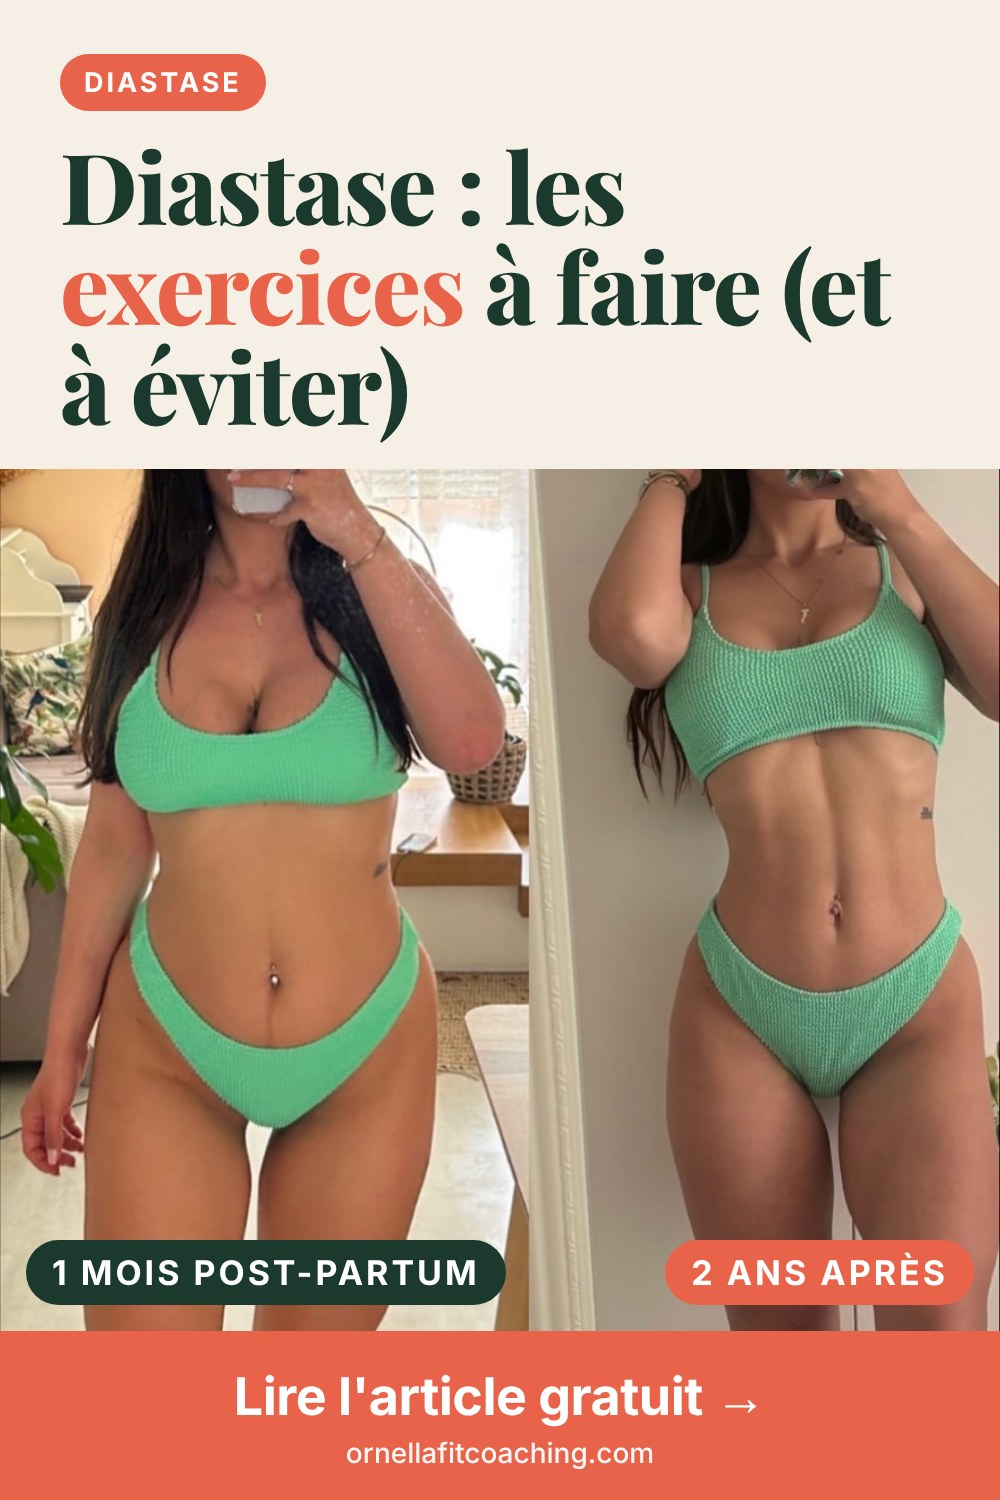
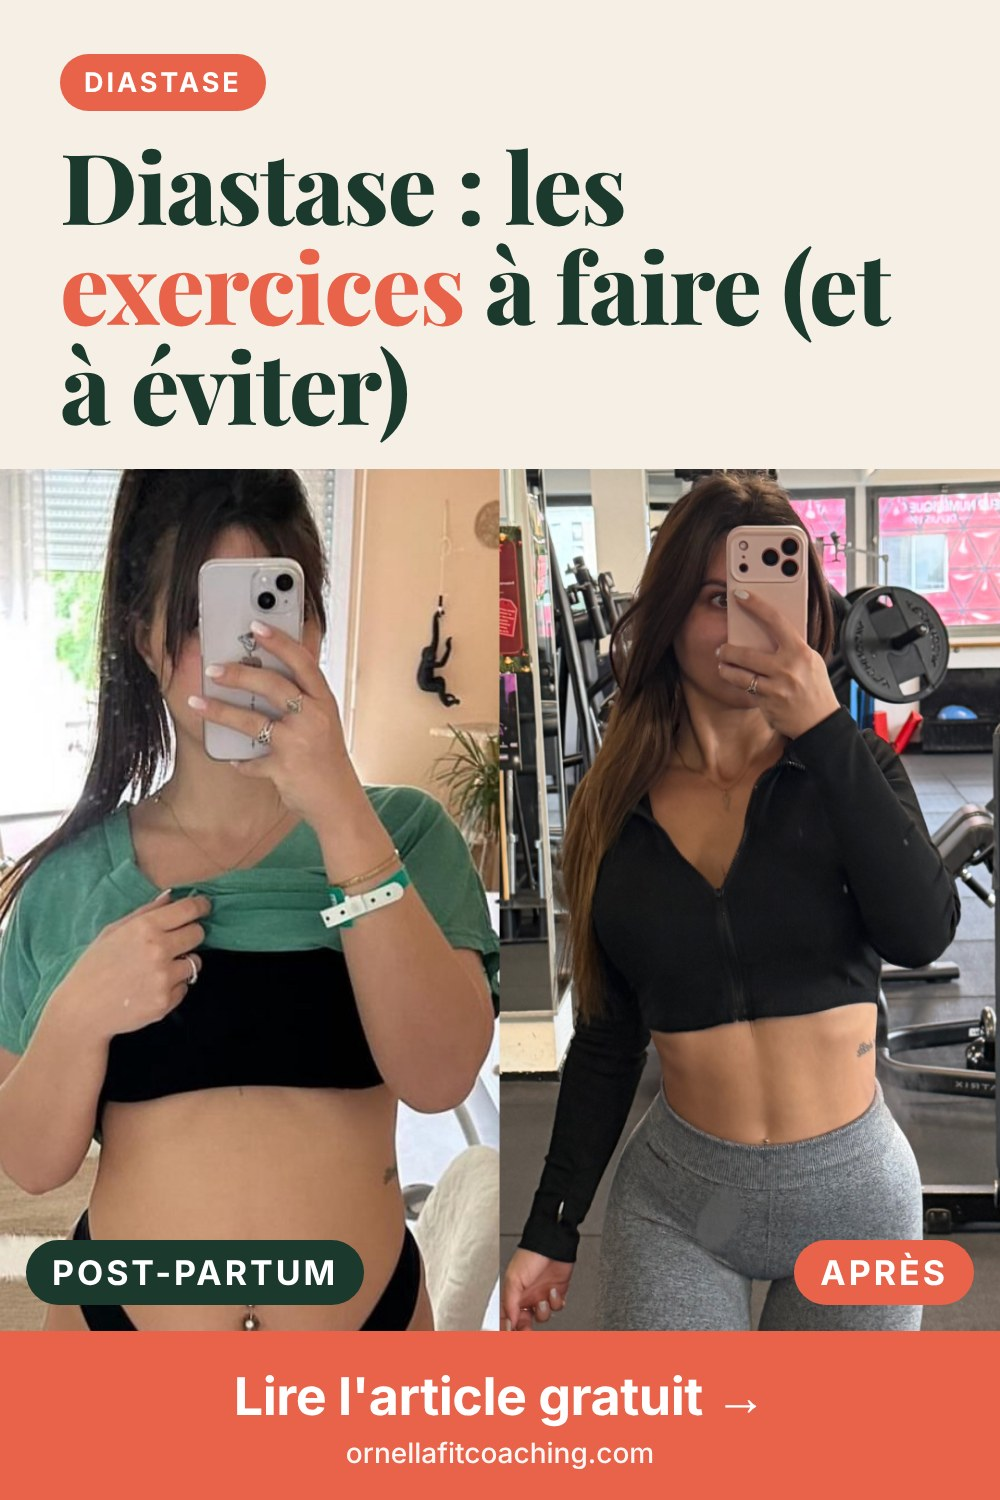
Pinterest : plus aucune photo en maillot (diastase, ventre plat, Iron Girl, ménopause refaits) + règle ajoutée au README
Claude-Session: https://claude.ai/code/session_011jJ2UhP3wCAHzxaMrU1XS7

diff --git a/scripts/pinterest/README.md b/scripts/pinterest/README.md
@@ -22,13 +22,13 @@ Ne pas utiliser « Réseaux » (tableau auto Instagram).
 - Lien = page précise du site (article de blog, page programme, challenge-ventre-plat.html, guide-offert.html, quiz.html), toujours avec `?utm_source=pinterest&utm_medium=organic`. Jamais Instagram.
 - Mix par lot de 10 : ~6 articles de blog, 2 aimants à leads (challenge ventre plat, guide 9 erreurs, quiz), 2 programmes payants (prix à jour sur la page !).
 - Une même page peut revenir avec un **nouveau visuel et un nouvel angle** (fresh pin), pas le même.
-- Photos : uniquement les vraies photos d'Ornella (assets/, images/ornella-*.jpg…). **Interdit** : photos retouchées IA / tenue bleue studio (images/ornella-profil-ext.jpg, images/poster-hero.jpg, images/ornella-profil-studio.*, images/ornella-fente.webp), photos de clientes, visuels produits avec un ancien prix (IRON-GIRL-Creme-1080.png affiche 39 €). Photos basse résolution (360 px) → `"fit":"contain"`.
+- Photos : uniquement les vraies photos d'Ornella (assets/, images/ornella-*.jpg…). **Interdit** : photos retouchées IA / tenue bleue studio (images/ornella-profil-ext.jpg, images/poster-hero.jpg, images/ornella-profil-studio.*, images/ornella-fente.webp), photos en maillot de bain / bikini / lingerie (images/guide-photo-1.jpg, images/guide-photo-2.jpg, images/ornella-competition.jpg, images/ornella-competition-fitness.jpg — Ornella ne veut pas apparaître en maillot), photos de clientes, visuels produits avec un ancien prix (IRON-GIRL-Creme-1080.png affiche 39 €). Photos basse résolution (360 px) → `"fit":"contain"`.
 - Pas de Canva.
 
 ## Gabarit visuel (v2, render.py)
 - Titre EN HAUT, gros (lisible en miniature dans le fil), 1 ligne de sous-titre max.
 - Photo au milieu ; gros bandeau CTA corail en bas avec une action claire (« Lire l'article gratuit », « Faire le quiz gratuit », « Je rejoins le challenge », « Voir le programme ») + ornellafitcoaching.com.
-- Avant/après : 3-4 épingles par lot, uniquement les transformations d'Ornella elle-même (ornella-avant-apres-postpartum, ornella-postpartum, guide-photo-2, ornella-sculpture-2mois, ornella-competition), étiquettes via `"labels":["AVANT","APRÈS"]`, sans promesse chiffrée. Jamais de clientes.
+- Avant/après : 3-4 épingles par lot, uniquement les transformations d'Ornella elle-même (ornella-avant-apres-postpartum, ornella-postpartum cadré haut sans le bas, avant-apres-ornella-sport, ornella-sculpture-2mois), habillée — jamais en maillot, étiquettes via `"labels":["AVANT","APRÈS"]`, sans promesse chiffrée. Jamais de clientes.
 - Pas deux épingles de la même file avec la même photo.
 - Ajouter `?v=<date>` à `image_url` à la publication (évite qu'un ancien visuel en cache soit repris).
 
